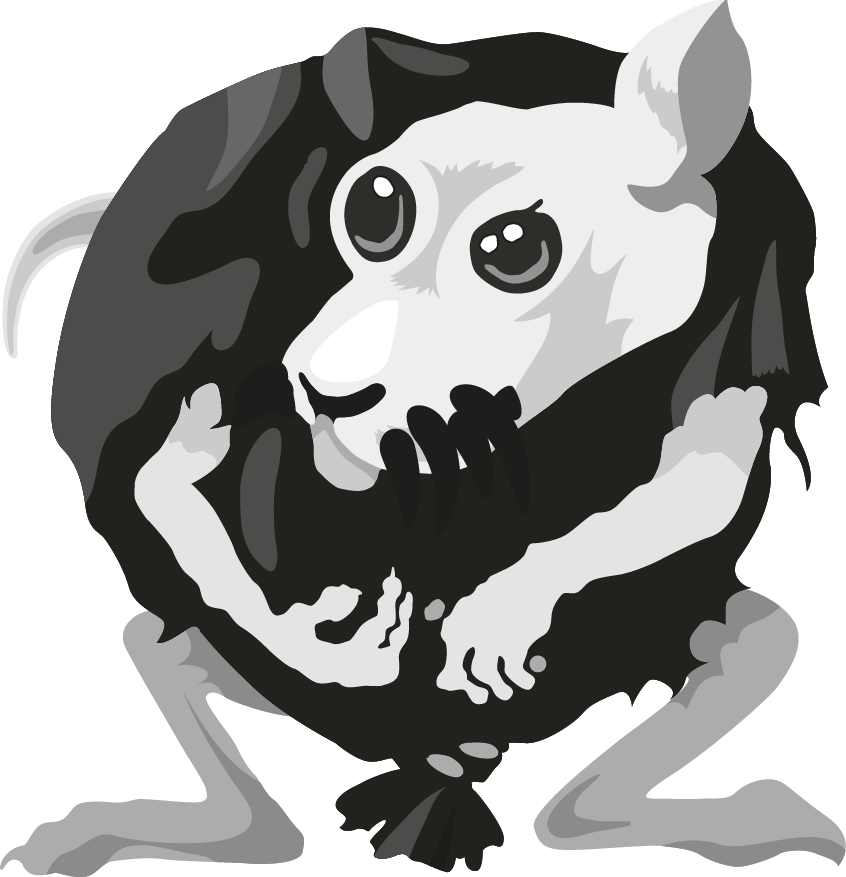
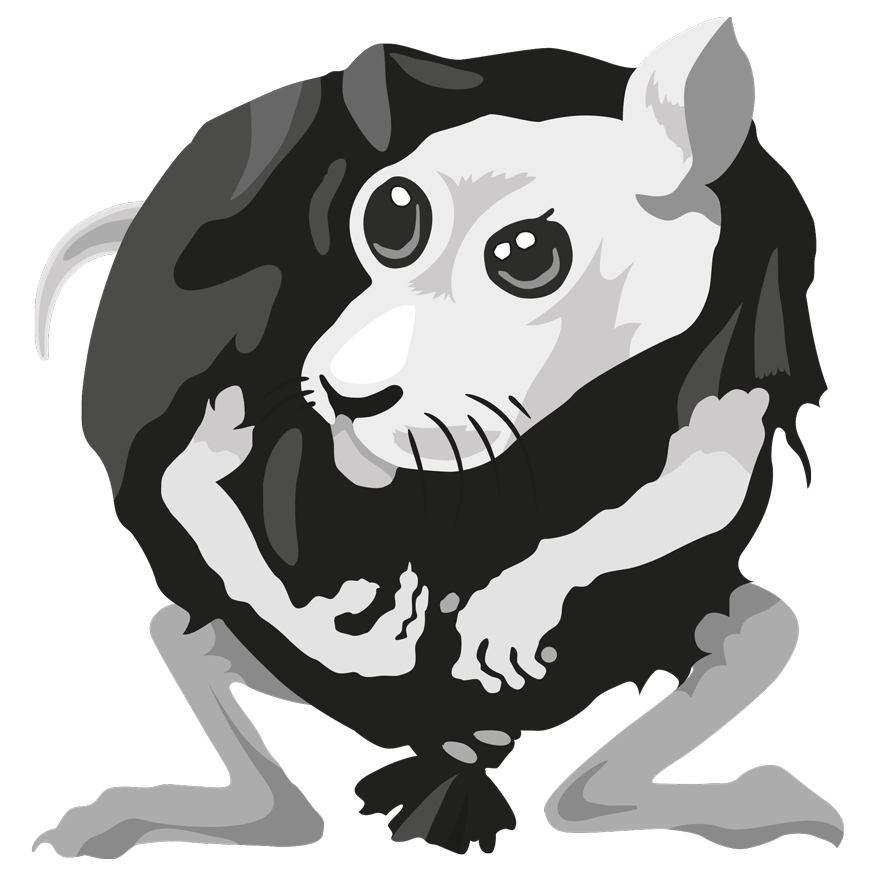
еще обновил описания и исправил крысу.

diff --git a/assets/app/DataRepository.js b/assets/app/DataRepository.js
@@ -307,18 +307,18 @@ var Snowstorm;
         ];
     };
     DataRepository.authors = [
-        { id: 1, name: { first: "Евгения", last: "Баринова" }, mascotUrl: "assets/images/portfolio/balet.png", about: "This character is a man in his early thirties, who can be quite mysterious. He comes from a comfortable background, lives in a fantasy world and tends to always say the wrong thing.", promoImages: DataRepository.getPromoImages(DataRepository.getEvgeniaBarinovaWorks()), works: DataRepository.getEvgeniaBarinovaWorks() },
-        { id: 2, name: { first: "Хадия", last: "Улумбекова" }, mascotUrl: "assets/images/portfolio/pigeon.png", about: "This character is a man in his early thirties, who can be quite mysterious. He comes from a comfortable background, lives in a fantasy world and tends to always say the wrong thing.", promoImages: DataRepository.getPromoImages(DataRepository.getKhadiaUlumbekovaWorks()), works: DataRepository.getKhadiaUlumbekovaWorks() },
-        { id: 3, name: { first: "Люба", last: "Березина" }, mascotUrl: "assets/images/portfolio/bird.png", about: "This character is a man in his early thirties, who can be quite mysterious. He comes from a comfortable background, lives in a fantasy world and tends to always say the wrong thing.", promoImages: DataRepository.getPromoImages(DataRepository.getLuybaBerezinaWorks()), works: DataRepository.getLuybaBerezinaWorks() },
-        { id: 4, name: { first: "Арина", last: "Шабанова" }, mascotUrl: "assets/images/portfolio/heart.png", about: "This character is a man in his early thirties, who can be quite mysterious. He comes from a comfortable background, lives in a fantasy world and tends to always say the wrong thing.", promoImages: DataRepository.getPromoImages(DataRepository.getArinaShabanovaWorks()), works: DataRepository.getArinaShabanovaWorks() },
-        { id: 5, name: { first: "Тимур", last: "Зима" }, mascotUrl: "assets/images/portfolio/ball.png", about: "This character is a man in his early thirties, who can be quite mysterious. He comes from a comfortable background, lives in a fantasy world and tends to always say the wrong thing.", promoImages: DataRepository.getPromoImages(DataRepository.getTimurZimaWorks()), works: DataRepository.getTimurZimaWorks() },
-        { id: 6, name: { first: "Алексей", last: "Сухов" }, mascotUrl: "assets/images/portfolio/rat.png", about: "This character is a man in his late twenties, who is very timid. He comes from a wealthy background, lives in the suburbs and tends to be a bit forgetful.", promoImages: DataRepository.getPromoImages(DataRepository.getLeshaSuhovWorks()), works: DataRepository.getLeshaSuhovWorks() },
-        { id: 7, name: { first: "Саша", last: "Киселёва" }, mascotUrl: "assets/images/portfolio/house.png", about: "This character is a woman in her sixties, who is very spontaneous. She comes from a comfortable background, lives in a mining town and tends to drink too much.", promoImages: DataRepository.getPromoImages(DataRepository.getSashaKiselevaWorks()), works: DataRepository.getSashaKiselevaWorks() },
-        { id: 8, name: { first: "Ольга", last: "Чикина" }, mascotUrl: "assets/images/portfolio/horse.png", about: "This character is a woman in her early thirties, who is very rude. She comes from a wealthy background, lives in a remote farmhouse and tends to be rather lazy.", promoImages: DataRepository.getPromoImages(DataRepository.getOlgaChikinaWorks()), works: DataRepository.getOlgaChikinaWorks() },
-        { id: 9, name: { first: "Катя", last: "Дорохина" }, mascotUrl: "assets/images/portfolio/pizza.png", about: "This character is a young man in his late teens, who can be quite judgemental. He comes from a poor background, lives in a caravan and tends to spend too much money.", promoImages: DataRepository.getPromoImages(DataRepository.getKatyaDorokhinaWorks()), works: DataRepository.getKatyaDorokhinaWorks() },
-        { id: 10, name: { first: "Екатерина", last: "Воронина" }, mascotUrl: "assets/images/portfolio/fox.png", about: "This character is a woman in her early forties, who is very stubborn. She comes from a poor background, lives in a fantasy world and tends to complain a lot.", promoImages: DataRepository.getPromoImages(DataRepository.getKatyaVoroninaWorks()), works: DataRepository.getKatyaVoroninaWorks() },
-        { id: 11, name: { first: "Никита", last: "Кибирев" }, mascotUrl: "assets/images/portfolio/mascotы2.png", about: "This character is a woman in her late thirties, who is very considerate. She comes from a poor background, lives in a terraced house and tends to drink too much.", promoImages: DataRepository.getPromoImages(DataRepository.getNikitaKibirevWorks()), works: DataRepository.getNikitaKibirevWorks() },
-        { id: 12, name: { first: "Сергей", last: "Гудков" }, mascotUrl: "assets/images/portfolio/mascot3ва.png", about: "This character is a man in his late forties, who is very secretive. He comes from a poor background, lives in a caravan and tends to work too hard.", promoImages: DataRepository.getPromoImages(DataRepository.getSergeyGudkovWorks()), works: DataRepository.getSergeyGudkovWorks() },
+        { id: 1, name: { first: "Евгения", last: "Баринова" }, mascotUrl: "assets/images/portfolio/balet.png", about: "Евгения Баринова — высококвалифицированный специалист широкого профиля. Занимается концептуальным искусством с дошкольного возраста. Вежлива, внимательна к деталям, соблюдает сроки.", promoImages: DataRepository.getPromoImages(DataRepository.getEvgeniaBarinovaWorks()), works: DataRepository.getEvgeniaBarinovaWorks() },
+        { id: 2, name: { first: "Хадия", last: "Улумбекова" }, mascotUrl: "assets/images/portfolio/pigeon.png", about: "\"Быстро и качественно? Да, такое бывает! Не получается медленно рисовать)\"", promoImages: DataRepository.getPromoImages(DataRepository.getKhadiaUlumbekovaWorks()), works: DataRepository.getKhadiaUlumbekovaWorks() },
+        { id: 3, name: { first: "Люба", last: "Березина" }, mascotUrl: "assets/images/portfolio/bird.png", about: "Иногда меня спрашивают: \"Вы иллюстратор? А портреты рисуете?\" Я отвечаю: \"Почему бы и нет, но боюсь вы не захотите вешать это на стенку\".", promoImages: DataRepository.getPromoImages(DataRepository.getLuybaBerezinaWorks()), works: DataRepository.getLuybaBerezinaWorks() },
+        { id: 4, name: { first: "Арина", last: "Шабанова" }, mascotUrl: "assets/images/portfolio/heart.png", about: "", promoImages: DataRepository.getPromoImages(DataRepository.getArinaShabanovaWorks()), works: DataRepository.getArinaShabanovaWorks() },
+        { id: 5, name: { first: "Тимур", last: "Зима" }, mascotUrl: "assets/images/portfolio/ball.png", about: "\"Графический дизайнер, иллюстратор и большой любитель ретроконсолей. В иллюстрации я стремлюсь к лаконичности и не забываю про детали. Черпаю вдохновение из разных источников, люблю простоту форм не забывая про детали.\"", promoImages: DataRepository.getPromoImages(DataRepository.getTimurZimaWorks()), works: DataRepository.getTimurZimaWorks() },
+        { id: 6, name: { first: "Алексей", last: "Сухов" }, mascotUrl: "assets/images/portfolio/rat.png", about: "\"Лучший парень в однокомнатной квартире\"", promoImages: DataRepository.getPromoImages(DataRepository.getLeshaSuhovWorks()), works: DataRepository.getLeshaSuhovWorks() },
+        { id: 7, name: { first: "Саша", last: "Киселёва" }, mascotUrl: "assets/images/portfolio/house.png", about: "", promoImages: DataRepository.getPromoImages(DataRepository.getSashaKiselevaWorks()), works: DataRepository.getSashaKiselevaWorks() },
+        { id: 8, name: { first: "Ольга", last: "Чикина" }, mascotUrl: "assets/images/portfolio/horse.png", about: "Элитный маляр", promoImages: DataRepository.getPromoImages(DataRepository.getOlgaChikinaWorks()), works: DataRepository.getOlgaChikinaWorks() },
+        { id: 9, name: { first: "Катя", last: "Дорохина" }, mascotUrl: "assets/images/portfolio/pizza.png", about: "Иллюстратор из Москвы, основное направление – создание персонажей и историй. Также занимается анимацией и керамикой. В иллюстрации ценит юмор и наличие деталей.", promoImages: DataRepository.getPromoImages(DataRepository.getKatyaDorokhinaWorks()), works: DataRepository.getKatyaDorokhinaWorks() },
+        { id: 10, name: { first: "Екатерина", last: "Воронина" }, mascotUrl: "assets/images/portfolio/fox.png", about: "\"В этом мире возможно все! Больше интенции, меньше инерции)\"", promoImages: DataRepository.getPromoImages(DataRepository.getKatyaVoroninaWorks()), works: DataRepository.getKatyaVoroninaWorks() },
+        { id: 11, name: { first: "Никита", last: "Кибирев" }, mascotUrl: "assets/images/portfolio/nik.png", about: "Я опытный иллюстратор и графический дизайнер, так же работаю в области off-the wall concept work, поскольку участвую в разработке корпоративного бренда широкого формата и также работаю над оформлением объявлений на Facebook для мамы.", promoImages: DataRepository.getPromoImages(DataRepository.getNikitaKibirevWorks()), works: DataRepository.getNikitaKibirevWorks() },
+        { id: 12, name: { first: "Сергей", last: "Гудков" }, mascotUrl: "assets/images/portfolio/mascot3ва.png", about: "Иллюстратор, дизайнер. \"Люблю комиксы, мультфильмы и детские иллюстрации.\"", promoImages: DataRepository.getPromoImages(DataRepository.getSergeyGudkovWorks()), works: DataRepository.getSergeyGudkovWorks() },
     ];
     Snowstorm.DataRepository = DataRepository;
 })(Snowstorm || (Snowstorm = {}));

diff --git a/assets/templates/authors.html b/assets/templates/authors.html
@@ -24,9 +24,9 @@
                 col-sm-9 col-sm-offset-2
                 col-xs-20 col-xs-offset-2 author-promo-container">
                         <div class="author-promo-content">
-                            <div class="author-promo-about-header">About</div>
+                            <div class="author-promo-about-header">Об авторе</div>
                             <div class="author-promo-about">{{author.about}}</div>
-                            <a href="#/Author/{{author.id}}" class="link">All Works</a>
+                            <a href="#/Author/{{author.id}}" class="link">Все работы</a>
                         </div>
                     </div>
 
